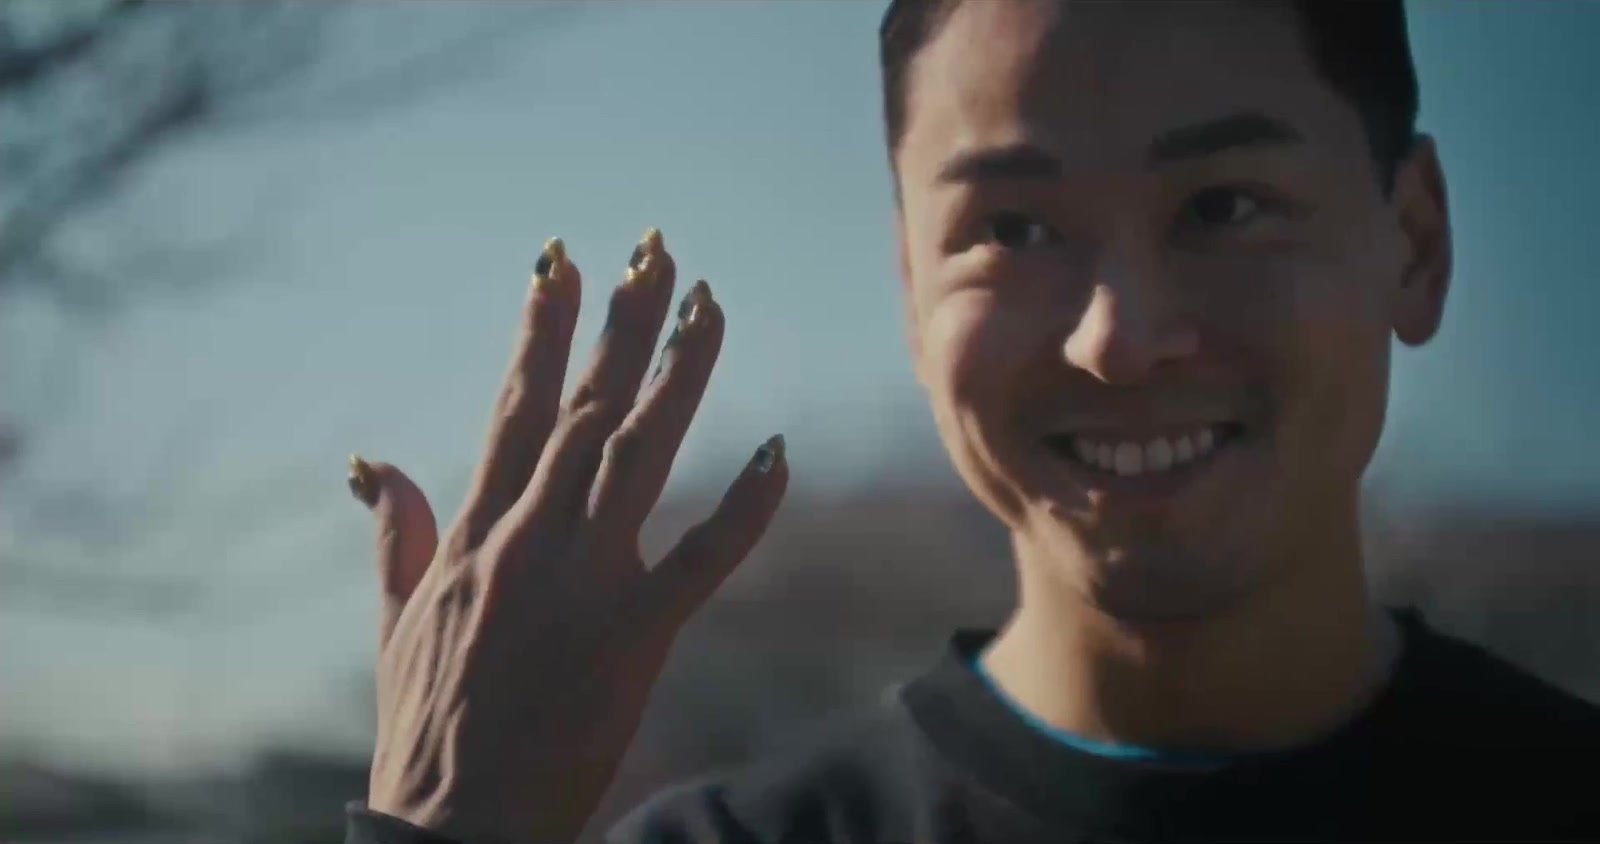
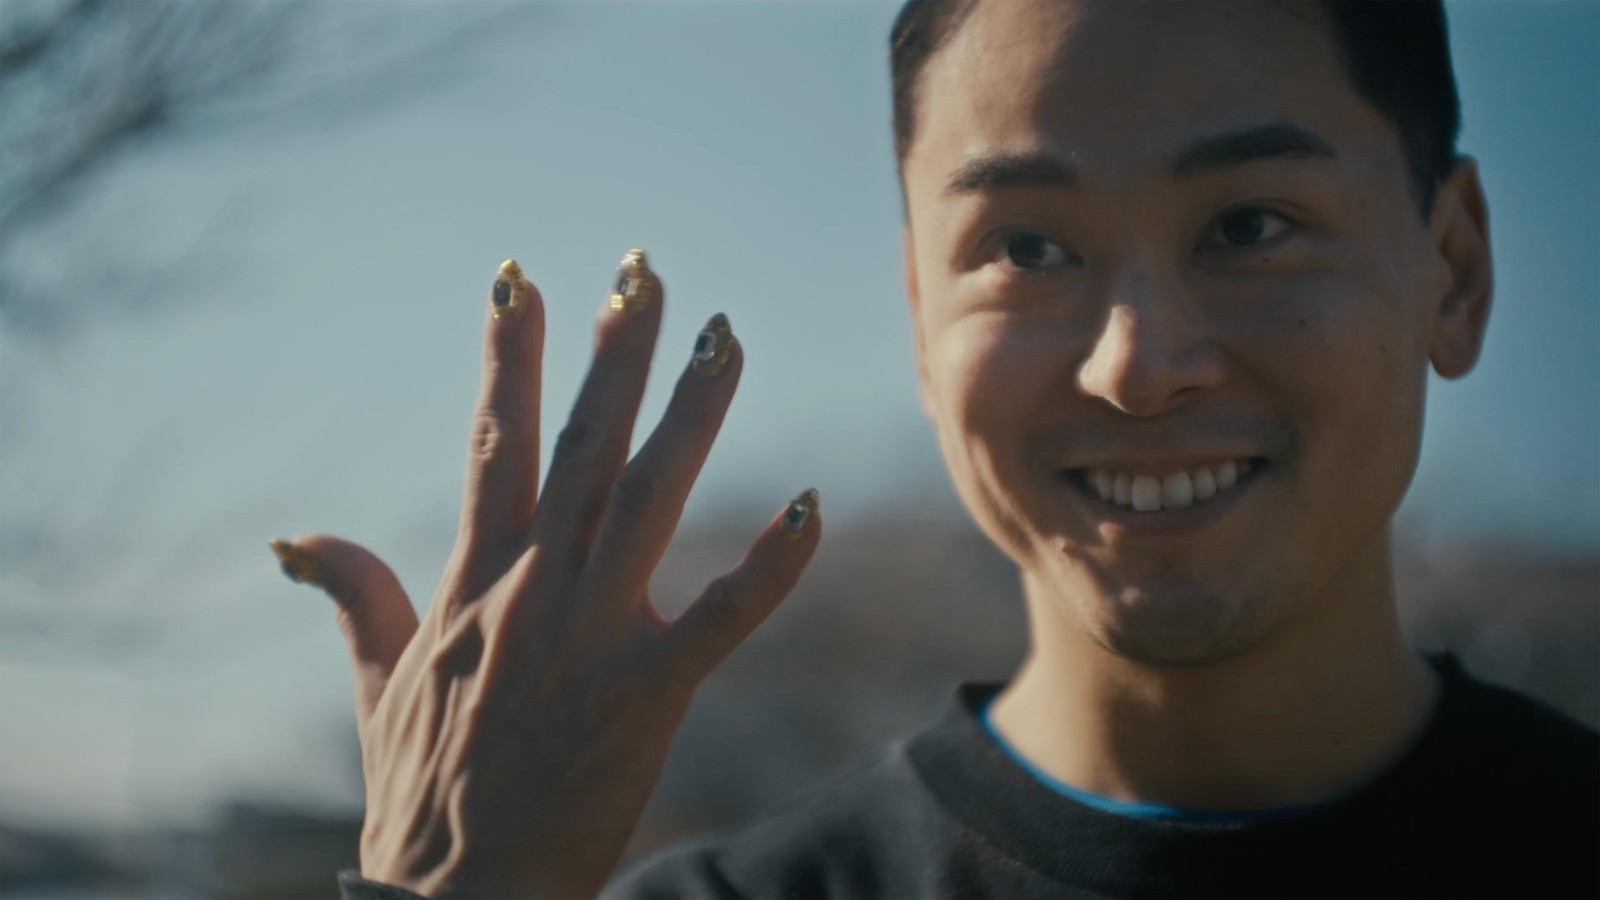
ストレンジ：おすすめシーン4枚を差し替え
Claude-Session: https://claude.ai/code/session_011uLnoVn7dWmk2R37AtDkkJ

diff --git a/index.html b/index.html
@@ -436,7 +436,7 @@ const WORKS=[
   {id:'curfew',t:'リッチーとの1日',o:'Curfew',c:'©Curfew',v:'trailers/curfew.mp4',picks:[null,null,null,23.4]},
   {id:'sandwitch',t:'もう一度ここで',o:'The Second Time Around',c:'©The Second Time Around',v:'trailers/sandwitch.mp4',picks:[0.9,null,6.7,null]},
   {id:'stilldark',t:'still dark',c:'©still dark',v:'trailers/stilldark.mp4',picks:[null,null,null,null]},
-  {id:'strange',t:'ストレンジ',o:'Strange',c:'©Strange',v:'trailers/strange.mp4',picks:[6.2,11.3,13.8,5.6]},
+  {id:'strange',t:'ストレンジ',o:'Strange',c:'©Strange',v:'trailers/strange.mp4',picks:[null,null,null,null]},
   {id:'dishpit',t:'皿洗い',o:'Dish Pit',c:'©Dish Pit',v:'trailers/dishpit.mp4',picks:[4.1,5.0,13.8,25.9]}
 ];
 const work=()=>WORKS.find(w=>w.id===P.work);
@@ -565,7 +565,7 @@ function render(){
   {const w=work(),hv=!!(w&&w.v),pk=hv&&P.mode==='pick',cur=scenes[sel]?.key;
    $('#modes').hidden=!hv;$('#pickwrap').hidden=!pk;$('#videowrap').hidden=pk;
    $('#modes').innerHTML=`<button class="opt" data-m="pick" ${pressed(P.mode==='pick')}>おすすめから選ぶ</button><button class="opt" data-m="video" ${pressed(P.mode==='video')}>動画を見て決める</button>`;
-   $('#picks').innerHTML=pk?w.picks.map((t,i)=>`<button class="opt pk" data-k="${i}" ${pressed(cur===w.id+'-'+i)} title="${esc(w.t)}${t==null?'':' '+tc(t)}">${i===0?'<span class="pkbadge"><svg viewBox="0 0 16 16" aria-hidden="true"><path d="M8 13.6S2.2 10.1 2.2 6.1A3 3 0 0 1 8 4.6a3 3 0 0 1 5.8 1.5c0 4-5.8 7.5-5.8 7.5z" fill="currentColor"/></svg>監督お気に入り</span>':''}<img src="picks/${w.id}-${i+1}.jpg?v=8" alt="${esc(w.t)}${t==null?'':' '+tc(t)}"></button>`).join(''):''}
+   $('#picks').innerHTML=pk?w.picks.map((t,i)=>`<button class="opt pk" data-k="${i}" ${pressed(cur===w.id+'-'+i)} title="${esc(w.t)}${t==null?'':' '+tc(t)}">${i===0?'<span class="pkbadge"><svg viewBox="0 0 16 16" aria-hidden="true"><path d="M8 13.6S2.2 10.1 2.2 6.1A3 3 0 0 1 8 4.6a3 3 0 0 1 5.8 1.5c0 4-5.8 7.5-5.8 7.5z" fill="currentColor"/></svg>監督お気に入り</span>':''}<img src="picks/${w.id}-${i+1}.jpg?v=9" alt="${esc(w.t)}${t==null?'':' '+tc(t)}"></button>`).join(''):''}
   document.querySelectorAll('#work .wk').forEach(b=>b.setAttribute('aria-checked',b.dataset.w===P.work));$('#crline').textContent=credit()||'未登録（プリントには入りません）';
   $('#trim').checked=P.trim;
   draw();
@@ -597,7 +597,7 @@ $('#capcolor').addEventListener('input',e=>{P.capColor=e.target.value.toLowerCas
 $('#neckdef').onclick=()=>{P.neck=NECK_STD;draw()};
 for(const k of ['size','neck','op','zoom','px','py'])$('#'+k).addEventListener('input',e=>{P[k]=+e.target.value;draw()});
 $('#trim').addEventListener('change',e=>{P.trim=e.target.checked;draw()});
-$('#work').innerHTML=WORKS.map(w=>`<button class="opt wk" role="radio" data-w="${w.id}"><img src="picks/${w.id}-1.jpg?v=8" alt=""><span><b>${esc(w.t)}</b>${w.o&&w.o!==w.t?`<small>${esc(w.o)}</small>`:''}</span></button>`).join('');
+$('#work').innerHTML=WORKS.map(w=>`<button class="opt wk" role="radio" data-w="${w.id}"><img src="picks/${w.id}-1.jpg?v=9" alt=""><span><b>${esc(w.t)}</b>${w.o&&w.o!==w.t?`<small>${esc(w.o)}</small>`:''}</span></button>`).join('');
 on('#work','data-w',v=>{if(v===P.work)return;P.work=v;const w=work();setBg();
   if(w&&w.v){if(P.mode==='video')openTrailer(w);else loadPick(0)}render()});
 on('#modes','data-m',v=>{P.mode=v;const w=work();if(v==='video'&&w&&w.v&&trailer!==w.v)openTrailer(w);render()});
@@ -606,7 +606,7 @@ function loadPick(i){
   const w=work();if(!w||!w.picks)return;const key=w.id+'-'+i,ex=scenes.findIndex(s=>s.key===key);
   if(ex>=0){sel=ex;render();return}
   const im=new Image();im.onload=()=>{const c=document.createElement('canvas');c.width=im.naturalWidth;c.height=im.naturalHeight;c.getContext('2d').drawImage(im,0,0);addScene(c,w.picks[i],w.t,false,key)};
-  im.src=`picks/${w.id}-${i+1}.jpg?v=8`;
+  im.src=`picks/${w.id}-${i+1}.jpg?v=9`;
 }
 $('#copy').onclick=async()=>{try{await navigator.clipboard.writeText(summary());$('#msg').textContent='内容をコピーしました'}catch(e){$('#msg').textContent='コピーできませんでした'}};
 
@@ -782,7 +782,7 @@ addScene(sample(),null,'サンプル',true);setBg();
 {const fv=$('#fv'),stage=$('#fvstage'),cv=$('#fvgl');
  /* every recommended still + extra frames pulled from each trailer */
  const FVT={"curfew": [2.65, 10.4, 14.4, 15.15, 18.9, 24.4], "sandwitch": [0.65, 3.65, 10.65, 14.4, 17.4, 18.15, 19.15, 20.65, 22.15], "dishpit": [0.9, 1.65, 5.4, 9.65, 10.4, 11.65, 13.4, 14.9, 29.4], "stilldark": [0.65, 2.65, 8.15, 9.65, 10.4, 12.65, 13.4, 14.4, 16.4, 17.15], "strange": [8.4, 11.9, 13.65, 16.15, 17.4, 18.4, 19.4, 20.4]};
- const pool=[...WORKS.flatMap(w=>w.picks.map((t,i)=>({w,t,pick:i,src:`picks/${w.id}-${i+1}.jpg?v=8`}))),
+ const pool=[...WORKS.flatMap(w=>w.picks.map((t,i)=>({w,t,pick:i,src:`picks/${w.id}-${i+1}.jpg?v=9`}))),
    ...WORKS.flatMap(w=>(FVT[w.id]||[]).map((t,i)=>({w,t,pick:-1,src:`fvpics/${w.id}-${i}.jpg`})))];
  let seed=11;const rnd=()=>(seed=(seed*16807)%2147483647)/2147483647;
  /* ---- card sprites in one atlas ---- */
